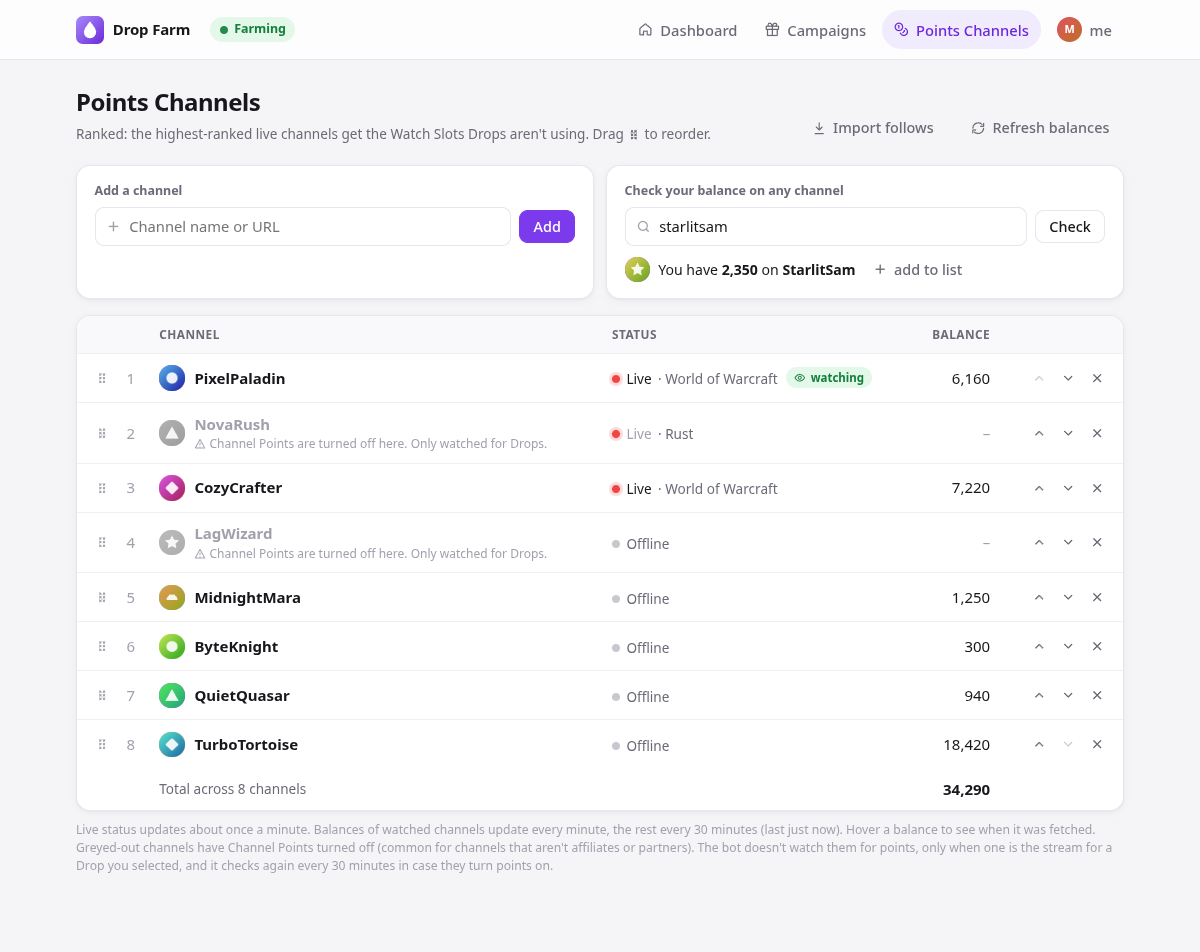
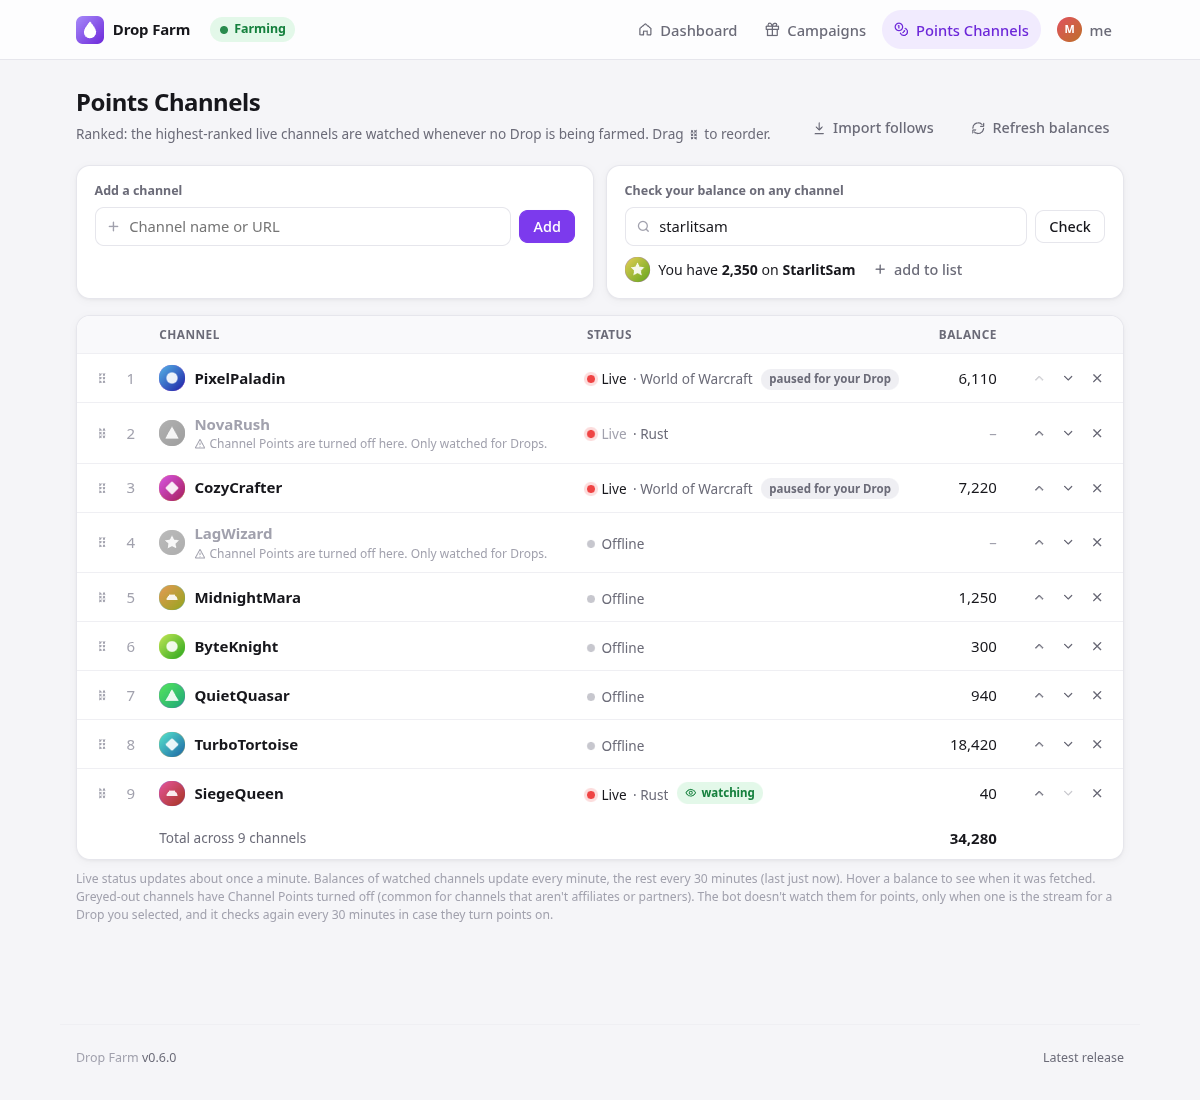
Update README screenshots for single-stream Drop farming; mark all paused channels
The demo's Drop stream is now also a Points Channel, so the dashboard
shows one Watch Slot earning both. "paused for your Drop" now covers
every live Points Channel waiting while a Drop is farmed, with the
reason on hover.

diff --git a/src/dropbot/web/templates/channels.html b/src/dropbot/web/templates/channels.html
@@ -43,7 +43,7 @@ tbody tr.saved td { animation: saved 1s ease-out; }
 <div class="page-head">
   <div>
     <h1>Points Channels</h1>
-    <p class="muted small">Ranked: the highest-ranked live channels get the Watch Slots Drops aren't using. Drag <svg class="i" style="vertical-align:-.15em"><use href="#i-grip"/></svg> to reorder.</p>
+    <p class="muted small">Ranked: the highest-ranked live channels are watched whenever no Drop is being farmed. Drag <svg class="i" style="vertical-align:-.15em"><use href="#i-grip"/></svg> to reorder.</p>
   </div>
   <div class="row">
     <form method="post" action="/channels/import"><button class="ghost"><svg class="i"><use href="#i-import"/></svg>Import follows</button></form>
@@ -104,7 +104,7 @@ tbody tr.saved td { animation: saved 1s ease-out; }
     <td class="col-status">
       {% if s %}<span class="status"><span class="dot live"></span>Live <span class="game">· {{ s.game_name }}</span></span>
         {% if c.channel.channel_id in watched %}<span class="badge ok" style="margin-left:.3rem"><svg class="i"><use href="#i-eye"/></svg>watching</span>{% endif %}
-        {% if c.channel.channel_id in competing and c.channel.channel_id not in watched %}<span class="badge" style="margin-left:.3rem" title="This stream has Drops of its own. Twitch credits Drop progress to one channel at a time, so watching it would stall {{ competing[c.channel.channel_id] }}. It's watched again once no Drop is being farmed.">paused for your Drop</span>{% endif %}
+        {% if c.channel.channel_id in paused and c.channel.channel_id not in watched and not c.channel.points_off %}<span class="badge" style="margin-left:.3rem" title="{{ paused[c.channel.channel_id] }}">paused for your Drop</span>{% endif %}
         {% if c.channel.channel_id in skipped %}<span class="badge warn" style="margin-left:.3rem" title="Watching kept failing (sub-only, region-locked, ...). Retrying {{ skipped[c.channel.channel_id] | until }}.">can't watch, skipped</span>{% endif %}
       {% else %}<span class="status muted"><span class="dot"></span>Offline</span>{% endif %}
     </td>

diff --git a/src/dropbot/web/app.py b/src/dropbot/web/app.py
@@ -233,9 +233,8 @@ def create_app(farmer: Farmer, *, lifespan=None) -> FastAPI:
         """Accept "name", "@name" or a twitch.tv URL."""
         return raw.strip().rstrip("/").lstrip("@").rsplit("/", 1)[-1].lower()
 
-    def competing_drops() -> dict[str, str]:
-        """Live channels left out because their Drops would take progress from the farmed one,
-        mapped to the name of the campaign being farmed."""
+    def paused_for_drop() -> dict[str, str]:
+        """Live channels left out so the farmed Drop keeps progressing, with the reason."""
         st = farmer.state
         slot = st.plan.drop_slot
         if slot is None or not isinstance(slot.reason, DropReason):
@@ -243,7 +242,20 @@ def create_app(farmer: Farmer, *, lifespan=None) -> FastAPI:
         c = next((c for c in st.campaigns if c.id == slot.reason.campaign_id), None)
         if c is None:
             return {}
-        return {cid: c.name for cid, s in st.live.items() if competes(s, c)}
+        own = (
+            "This stream has Drops of its own. Twitch credits Drop progress to one channel at"
+            f" a time, so watching it would stall {c.name}."
+        )
+        solo = (
+            f"While {c.name} is being farmed, only its stream is watched: Twitch credits Drop"
+            " progress to one channel at a time, and a second stream can stall it."
+        )
+        after = " It's watched again once no Drop is being farmed."
+        return {
+            cid: (own if competes(s, c) else solo) + after
+            for cid, s in st.live.items()
+            if competes(s, c) or not farmer.points_during_drops
+        }
 
     @app.get("/channels", response_class=HTMLResponse)
     async def channels_page(request: Request, error: str = "", check: str = ""):
@@ -273,7 +285,7 @@ def create_app(farmer: Farmer, *, lifespan=None) -> FastAPI:
             on_list={c.channel.channel_id for c in channels},
             watched={s.stream.channel_id for s in farmer.state.plan.slots},
             skipped=farmer.state.skipped,
-            competing=competing_drops(),
+            paused=paused_for_drop(),
         )
 
     @app.post("/channels/balances")

diff --git a/tests/test_web.py b/tests/test_web.py
@@ -343,3 +343,20 @@ async def test_points_channel_with_competing_drops_says_why_it_is_not_watched(en
     await farmer.tick()
     assert [s.stream.channel_id for s in farmer.state.plan.slots] == ["d"]
     assert "paused for your Drop" in (await c.get("/channels")).text
+
+
+async def test_every_live_points_channel_is_marked_paused_while_a_drop_is_farmed(env):
+    farmer, tw, store, c = env
+    await farmer.login(TOKEN)
+    tw.campaign_list = [campaign("c1", allowed={"d"})]
+    tw.go_live(stream("d"))
+    tw.go_live(stream("p2", game=None, drops_enabled=False))  # no Drops: paused only by solo mode
+    await store.add_points_channel("p2", "userp2")
+    await farmer.tick()
+    await store.set_selected("c1", True)
+    await farmer.tick()
+    html = (await c.get("/channels")).text
+    assert "paused for your Drop" in html and "only its stream is watched" in html
+    farmer.points_during_drops = True
+    await farmer.tick()
+    assert "paused for your Drop" not in (await c.get("/channels")).text

diff --git a/scripts/demo.py b/scripts/demo.py
@@ -200,6 +200,8 @@ async def main() -> None:
                 replace(stream(cid, game=game, viewers=viewers), login=login, display_name=name)
             )
         await store.add_points_channel(cid, login, name)
+    # The Drop stream is on the list too, so its one Watch Slot earns the Drop and points.
+    await store.add_points_channel("c9", "siegequeen", "SiegeQueen")
     tw.users["starlitsam"] = UserInfo("c10", "starlitsam", "StarlitSam")  # for the balance check
     tw.balances["starlitsam"] = 2350
     tw.avatars["starlitsam"] = avatar(3, 50)

diff --git a/README.md b/README.md
@@ -16,7 +16,7 @@ It only farms passively. It never spends, bets or predicts anything. It's inspir
 > [!CAUTION]
 > Automated watching is against Twitch's terms of service. Use it at your own risk, and only on your own account.
 
-![Dashboard: two Watch Slots (one farming a Drop, one farming Channel Points), balances per channel and recent claims](docs/screenshots/dashboard.png)
+![Dashboard: the Drop stream in its Watch Slot, earning the Drop and Channel Points at once, with balances per channel and recent claims](docs/screenshots/dashboard.png)
 
 ## Features
 
@@ -43,7 +43,7 @@ All screenshots use made-up channels and data (see [Development](#development)).
 
 ![Campaign search for "skin" showing 1 of 6 campaigns](docs/screenshots/campaigns-search.png)
 
-**Points Channels.** Your ranked list with live status, balances and a total. Channels with Channel Points turned off are greyed out. The box at the top right checks your balance on any channel.
+**Points Channels.** Your ranked list with live status, balances and a total. Channels with Channel Points turned off are greyed out, and live channels waiting while a Drop is farmed say so. The box at the top right checks your balance on any channel.
 
 ![Points Channels list with live status, balances, two greyed-out channels and a balance check result](docs/screenshots/channels.png)
 

diff --git a/CHANGELOG.md b/CHANGELOG.md
@@ -6,6 +6,10 @@ Versioning: [SemVer](https://semver.org/).
 
 ## [Unreleased]
 
+### Changed
+- "paused for your Drop" now marks every live Points Channel that waits while a Drop is farmed, not only those with Drops of their own. Hover over it to see which reason applies. The Points Channels subtitle describes the new watching rule.
+- README screenshots updated for v0.6.0's one-stream-while-farming-a-Drop behaviour.
+
 ## [0.6.0] - 2026-11-10
 
 Drops progress again: while a Drop is farmed, only its stream is watched.
